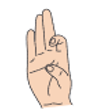
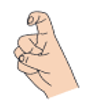
actualizar abecedario LSE a 30 letras: agregar CH, LL, RR, N

Changed region(s): [[0.125, 0.0588, 0.8438, 1.0]]

diff --git a/src/pages/Aprender.tsx b/src/pages/Aprender.tsx
@@ -1,34 +1,70 @@
 import { useState } from 'react';
 
-const alphabet = 'ABCDEFGHIJKLMNOPQRSTUVWXYZ'.split('');
+// Abecedario dactilológico completo de LSE: 30 elementos (26 letras + CH, LL, RR, Ñ)
+const ALPHABET: { id: string; label: string }[] = [
+  { id: 'a',    label: 'A' },
+  { id: 'b',    label: 'B' },
+  { id: 'c',    label: 'C' },
+  { id: 'ch',   label: 'CH' },
+  { id: 'd',    label: 'D' },
+  { id: 'e',    label: 'E' },
+  { id: 'f',    label: 'F' },
+  { id: 'g',    label: 'G' },
+  { id: 'h',    label: 'H' },
+  { id: 'i',    label: 'I' },
+  { id: 'j',    label: 'J' },
+  { id: 'k',    label: 'K' },
+  { id: 'l',    label: 'L' },
+  { id: 'll',   label: 'LL' },
+  { id: 'm',    label: 'M' },
+  { id: 'n',    label: 'N' },
+  { id: 'enye', label: 'Ñ' },
+  { id: 'o',    label: 'O' },
+  { id: 'p',    label: 'P' },
+  { id: 'q',    label: 'Q' },
+  { id: 'r',    label: 'R' },
+  { id: 'rr',   label: 'RR' },
+  { id: 's',    label: 'S' },
+  { id: 't',    label: 'T' },
+  { id: 'u',    label: 'U' },
+  { id: 'v',    label: 'V' },
+  { id: 'w',    label: 'W' },
+  { id: 'x',    label: 'X' },
+  { id: 'y',    label: 'Y' },
+  { id: 'z',    label: 'Z' },
+];
 
 const signDescriptions: Record<string, string> = {
-  A:'Cierra el puño con el pulgar al lado.',
-  B:'Dedos juntos y extendidos hacia arriba, pulgar doblado.',
-  C:'Curva los dedos formando una C.',
-  D:'Dedo índice arriba, los demás forman un círculo con el pulgar.',
-  E:'Dobla los dedos hacia abajo sobre el pulgar.',
-  F:'Une el pulgar con el índice, los demás extendidos.',
-  G:'Índice y pulgar apuntan hacia el lado.',
-  H:'Índice y medio extendidos juntos hacia el lado.',
-  I:'Solo el meñique extendido hacia arriba.',
-  J:'Meñique extendido y traza una J en el aire.',
-  K:'Índice arriba, medio diagonal, pulgar entre ellos.',
-  L:'Índice arriba y pulgar hacia el lado (forma L).',
-  M:'Tres dedos doblados sobre el pulgar.',
-  N:'Dos dedos doblados sobre el pulgar.',
-  O:'Todos los dedos forman un círculo (forma O).',
-  P:'Como la K pero apuntando hacia abajo.',
-  Q:'Como la G pero apuntando hacia abajo.',
-  R:'Índice y medio cruzados, extendidos.',
-  S:'Puño cerrado con el pulgar sobre los dedos.',
-  T:'Pulgar entre índice y medio.',
-  U:'Índice y medio extendidos y juntos hacia arriba.',
-  V:'Índice y medio extendidos en forma de V.',
-  W:'Índice, medio y anular extendidos.',
-  X:'Índice doblado en gancho.',
-  Y:'Pulgar y meñique extendidos (los demás cerrados).',
-  Z:'Traza una Z en el aire con el índice.',
+  a:'Cierra el puño con el pulgar al lado.',
+  b:'Dedos juntos y extendidos hacia arriba, pulgar doblado.',
+  c:'Curva los dedos formando una C.',
+  ch:'Como la C, con un pequeño movimiento repetido.',
+  d:'Dedo índice arriba, los demás forman un círculo con el pulgar.',
+  e:'Dobla los dedos hacia abajo sobre el pulgar.',
+  f:'Une el pulgar con el índice, los demás extendidos.',
+  g:'Índice y pulgar apuntan hacia el lado.',
+  h:'Índice y medio extendidos juntos hacia el lado.',
+  i:'Solo el meñique extendido hacia arriba.',
+  j:'Meñique extendido y traza una J en el aire.',
+  k:'Índice arriba, medio diagonal, pulgar entre ellos.',
+  l:'Índice arriba y pulgar hacia el lado (forma L).',
+  ll:'Como la L, con un pequeño movimiento hacia el lado.',
+  m:'Tres dedos doblados sobre el pulgar.',
+  n:'Dos dedos doblados sobre el pulgar.',
+  enye:'Como la N, con un pequeño movimiento ondulado (representa la virgulilla).',
+  o:'Todos los dedos forman un círculo (forma O).',
+  p:'Como la K pero apuntando hacia abajo.',
+  q:'Como la G pero apuntando hacia abajo.',
+  r:'Índice y medio cruzados, extendidos.',
+  rr:'Como la R, con un pequeño movimiento repetido.',
+  s:'Puño cerrado con el pulgar sobre los dedos.',
+  t:'Pulgar entre índice y medio.',
+  u:'Índice y medio extendidos y juntos hacia arriba.',
+  v:'Índice y medio extendidos en forma de V.',
+  w:'Índice, medio y anular extendidos.',
+  x:'Índice doblado en gancho.',
+  y:'Pulgar y meñique extendidos (los demás cerrados).',
+  z:'Traza una Z en el aire con el índice.',
 };
 
 export default function Aprender() {
@@ -36,17 +72,18 @@ export default function Aprender() {
   const [learned, setLearned]   = useState<Set<string>>(new Set());
   const [filter, setFilter]     = useState('Todas');
 
-  const groups: Record<string, string[]> = {
-    'Todas': alphabet,
-    'A – F':  alphabet.slice(0, 6),
-    'G – L':  alphabet.slice(6, 12),
-    'M – R':  alphabet.slice(12, 18),
-    'S – Z':  alphabet.slice(18),
+  const groups: Record<string, typeof ALPHABET> = {
+    'Todas':  ALPHABET,
+    'A – E':  ALPHABET.slice(0, 6),
+    'F – L':  ALPHABET.slice(6, 13),
+    'LL – Q': ALPHABET.slice(13, 19),
+    'R – Z':  ALPHABET.slice(19),
   };
   const visible = groups[filter];
+  const selectedItem = ALPHABET.find(l => l.id === selected);
 
-  function markLearned(letter: string) {
-    setLearned(prev => new Set([...prev, letter]));
+  function markLearned(id: string) {
+    setLearned(prev => new Set([...prev, id]));
   }
 
   return (
@@ -66,40 +103,39 @@ export default function Aprender() {
 
       {/* Barra de progreso */}
       <div style={s.progWrap}>
-        <span style={s.progLabel}>{learned.size} / {alphabet.length} señas aprendidas</span>
+        <span style={s.progLabel}>{learned.size} / {ALPHABET.length} señas aprendidas</span>
         <div className="prog-bar-outer" style={{ flex: 1, maxWidth: 400 }}>
           <div className="prog-bar-inner"
-            style={{ width: `${(learned.size / alphabet.length) * 100}%` }} />
+            style={{ width: `${(learned.size / ALPHABET.length) * 100}%` }} />
         </div>
       </div>
 
       {/* Grid de tarjetas */}
       <div style={s.grid}>
         {visible.map(letter => {
-          const isLearned = learned.has(letter);
+          const isLearned = learned.has(letter.id);
           return (
-            <div key={letter} onClick={() => setSelected(letter)}
+            <div key={letter.id} onClick={() => setSelected(letter.id)}
               style={{
                 ...s.signBox,
                 ...(isLearned ? s.signBoxLearned : {}),
-                ...(selected === letter ? s.signBoxSelected : {}),
+                ...(selected === letter.id ? s.signBoxSelected : {}),
               }}>
 
-              {/* Imagen de solo la mano (carpeta /hands/, distinta de /signs/ que usa Camara.tsx) */}
               <img
-                src={`/hands/${letter.toLowerCase()}.png`}
-                alt={`Seña ${letter}`}
+                src={`/hands/${letter.id}.png`}
+                alt={`Seña ${letter.label}`}
                 style={s.signImg}
               />
 
               <span style={{
                 fontFamily: "'Fredoka One',cursive",
-                fontSize: 28,
+                fontSize: letter.label.length > 1 ? 20 : 28,
                 color: isLearned ? '#267a50' : '#7c3aed',
                 marginTop: 6,
                 display: 'block',
               }}>
-                {letter}
+                {letter.label}
               </span>
 
               <span style={isLearned ? s.checkBadge : s.viewBadge}>
@@ -111,24 +147,23 @@ export default function Aprender() {
       </div>
 
       {/* Modal */}
-      {selected && (
+      {selectedItem && (
         <div style={s.modalOverlay} onClick={() => setSelected(null)}>
           <div style={s.modal} onClick={e => e.stopPropagation()}>
             <button style={s.closeBtn} onClick={() => setSelected(null)}>✕</button>
 
-            {/* Imagen grande */}
             <img
-              src={`/hands/${selected.toLowerCase()}.png`}
-              alt={`Seña ${selected}`}
+              src={`/hands/${selectedItem.id}.png`}
+              alt={`Seña ${selectedItem.label}`}
               style={s.modalImg}
             />
 
-            <h2 style={s.modalLetter}>{selected}</h2>
-            <p style={s.modalDesc}>{signDescriptions[selected]}</p>
+            <h2 style={s.modalLetter}>{selectedItem.label}</h2>
+            <p style={s.modalDesc}>{signDescriptions[selectedItem.id]}</p>
 
             <div style={{ display: 'flex', gap: 12, justifyContent: 'center', flexWrap: 'wrap' }}>
               <button style={s.btnLearn}
-                onClick={() => { markLearned(selected); setSelected(null); }}>
+                onClick={() => { markLearned(selectedItem.id); setSelected(null); }}>
                 ✅ ¡Ya la aprendí! +30 XP
               </button>
               <button style={s.btnClose} onClick={() => setSelected(null)}>
